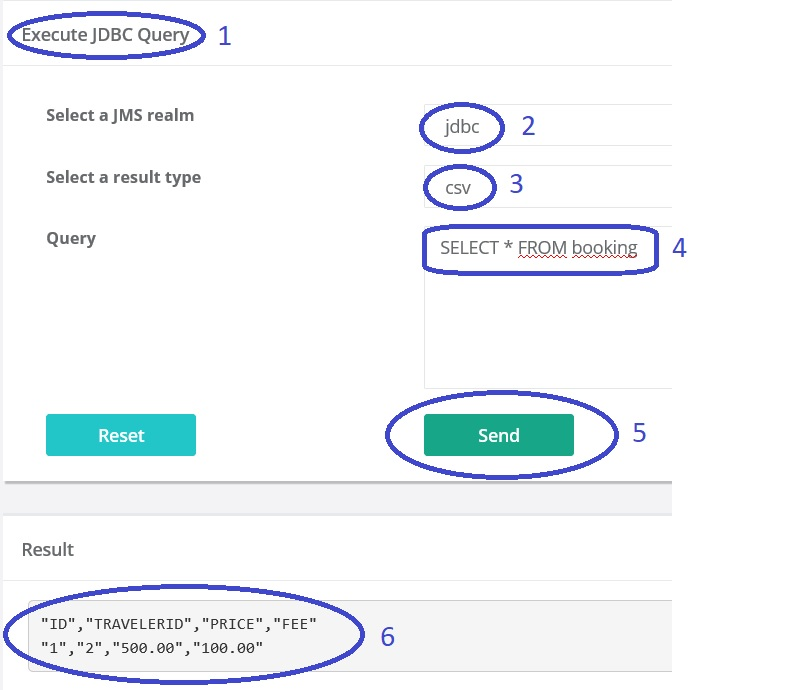
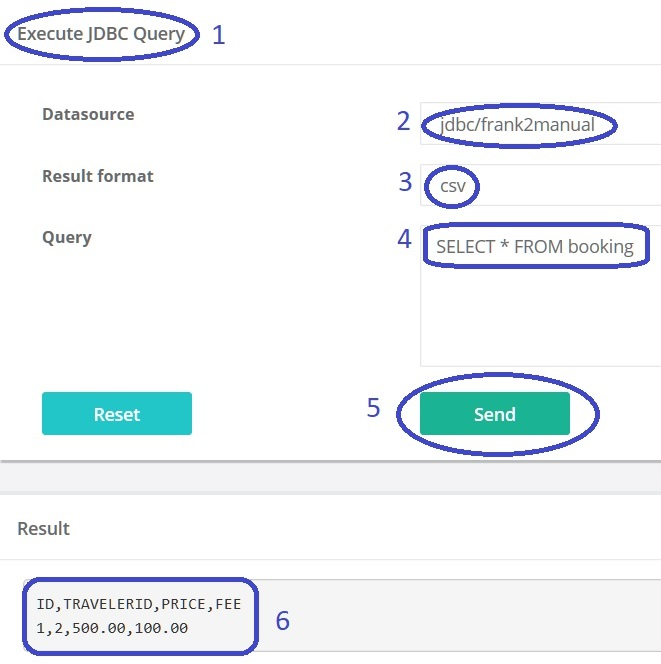
Replace another picture to get rid of the JMS Realm

diff --git a/docs/source/gettingStarted/horizonsInsertDb.rst b/docs/source/gettingStarted/horizonsInsertDb.rst
@@ -21,7 +21,7 @@ As an example, we extend the New Horizons case by writing the "booking" table in
 
 You see that we send an INSERT query to the database with parameters. The parameters appear with question marks in the SQL statement. The values of the parameters are provided through the ``<Param>`` tags. These tags contain XPath expressions to select the values from the incoming message. Xpath is explained here: https://www.w3schools.com/xml/xpath_intro.asp. You can see that elements are selected through ``/`` while attributes are selected through ``/@``. We know that the incoming message is a valid booking, because it passed the ``<XmlValidatorPipe>``.
 
-The database is selected in an indirect way; the line ``jmsRealm="jdbc"`` does the trick. Its meaning is explained in depth in section :ref:`advancedDevelopmentDatabase`. If you are reading this section for the first time, please finish it before studying database details.
+The database is selected in an indirect way; the line ``datasourceName="jdbc/${instance.name.lc}"`` does the trick. Its meaning is explained in depth in section :ref:`advancedDevelopmentDatabase`. If you are reading this section for the first time, please finish it before studying database details.
 
 Named query parameters
 ----------------------
@@ -61,7 +61,7 @@ The output message is no longer the incoming booking XML. Please remember this w
 
    .. image:: executeJdbcQuery.jpg
 
-#. You see you are in the execute screen (number 1). Select "JMS realm" "jdbc" (number 2). If you want, you can choose to see comma-separated output instead of XML (number 3).
+#. You see you are in the execute screen (number 1). Select "Datasource" "jdbc/frank2manual" (number 2). If you want, you can choose to see comma-separated output instead of XML (number 3).
 #. Type the following query: ``SELECT * FROM booking`` (number 4).
 #. Press "Send" (number 5). Check that the query result (number 6) shows some of the data you entered in step 2, in particular the "id" you chose.
 
